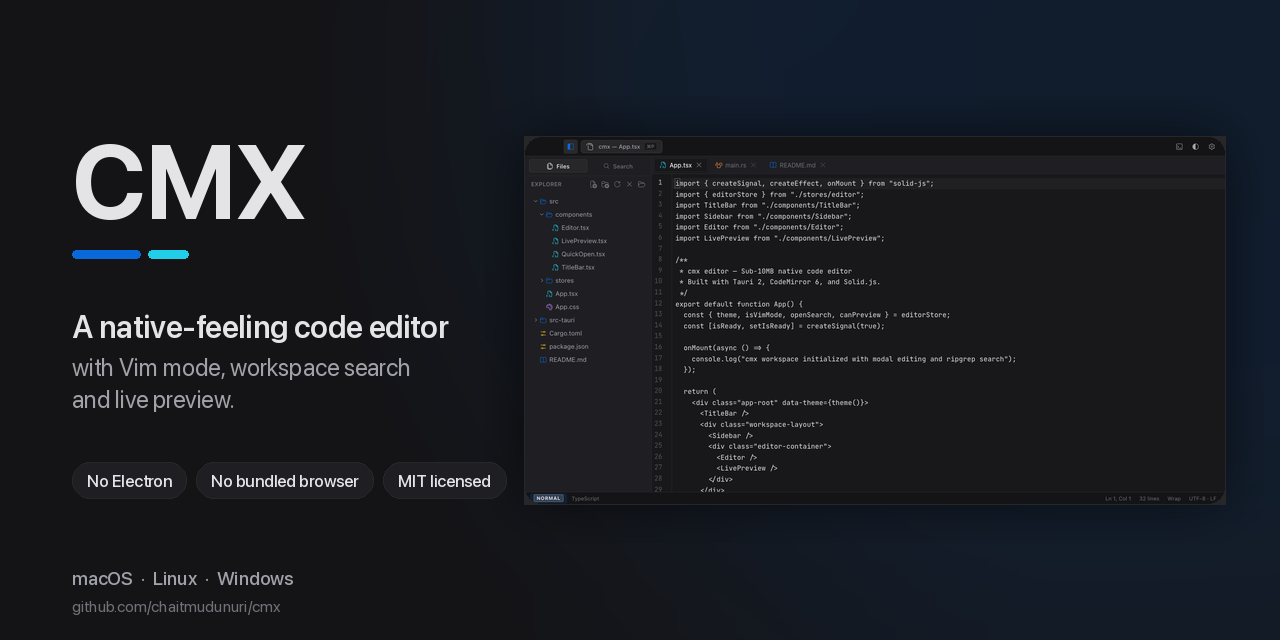
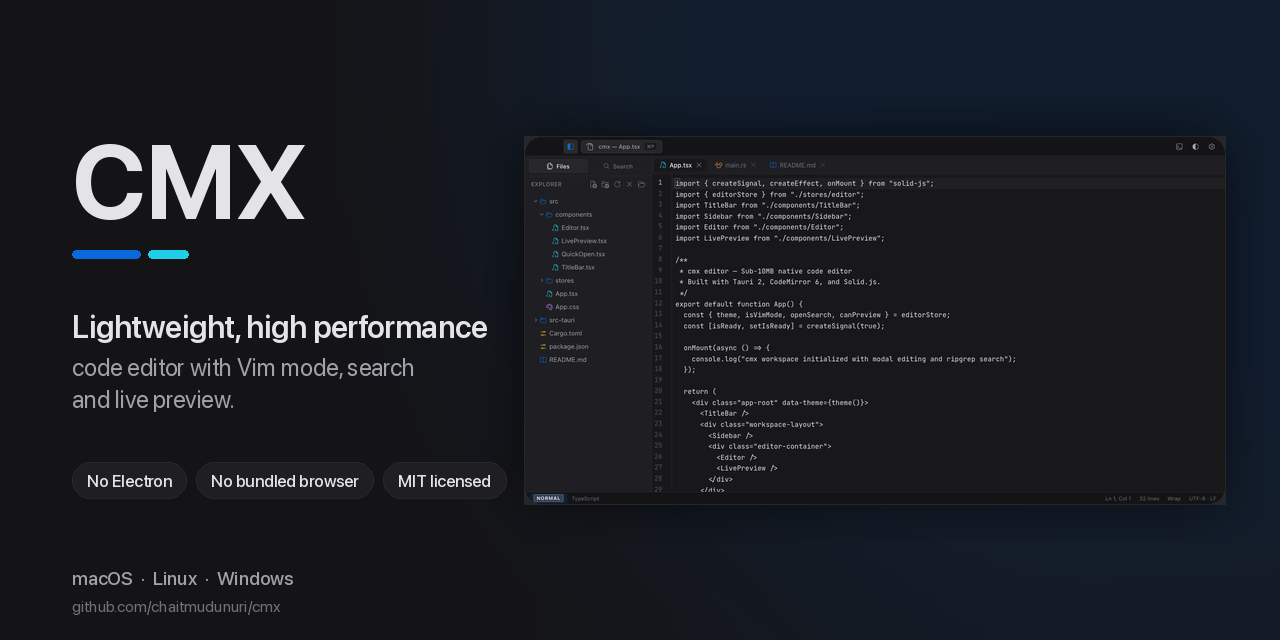
Fix image aspect ratio and update tagline to lightweight, high performance

Changed region(s): [[0.0312, 0.5, 0.4062, 0.5312], [0.0625, 0.5625, 0.3438, 0.5938]]

diff --git a/docs/index.html b/docs/index.html
@@ -37,7 +37,7 @@
 <script defer src="/cmx/assets/site.js"></script>
 
 <script type="application/ld+json" id="schema_0">{"@context":"https://schema.org","@type":"SoftwareSourceCode","name":"CMX","description":"Source code for CMX, a code editor built with Tauri 2, CodeMirror 6 and Solid.js.","codeRepository":"https://github.com/chaitmudunuri/cmx","programmingLanguage":["Rust","TypeScript"],"license":"https://github.com/chaitmudunuri/cmx/blob/main/LICENSE","runtimePlatform":"macOS, Linux, Windows","author":{"@type":"Person","name":"chaitmudunuri","url":"https://github.com/chaitmudunuri"}}</script>
-<script type="application/ld+json" id="schema_1">{"@context":"https://schema.org","@type":"SoftwareApplication","name":"CMX","alternateName":"CMX editor","description":"A native-feeling code editor with Vim mode, workspace search, and live preview. No Electron, no bundled browser.","url":"https://chaitmudunuri.github.io/cmx/","applicationCategory":"DeveloperApplication","applicationSubCategory":"Text editor","operatingSystem":"macOS, Linux, Windows","softwareVersion":"0.1.0","license":"https://github.com/chaitmudunuri/cmx/blob/main/LICENSE","downloadUrl":"https://github.com/chaitmudunuri/cmx/releases/download/v0.1.0/cmx.editor_0.1.0_aarch64.dmg","installUrl":"https://chaitmudunuri.github.io/cmx/docs/installation.html","softwareHelp":"https://chaitmudunuri.github.io/cmx/docs.html","releaseNotes":"https://github.com/chaitmudunuri/cmx/releases/tag/v0.1.0","image":"https://chaitmudunuri.github.io/cmx/social-preview.png","author":{"@type":"Person","name":"chaitmudunuri","url":"https://github.com/chaitmudunuri"},"maintainer":{"@type":"Person","name":"chaitmudunuri"},"offers":[{"@type":"Offer","price":"0","priceCurrency":"USD"}],"featureList":["Vim mode with Friendly and Expert levels","Workspace-wide search that respects .gitignore","Quick Open ranked file finder","Live preview for Markdown, HTML and SVG","Large-file fast mode","Dark and light themes"],"codeRepository":"https://github.com/chaitmudunuri/cmx","programmingLanguage":["Rust","TypeScript"]}</script>
+<script type="application/ld+json" id="schema_1">{"@context":"https://schema.org","@type":"SoftwareApplication","name":"CMX","alternateName":"CMX editor","description":"A lightweight, high performance code editor with Vim mode, workspace search, and live preview. No Electron, no bundled browser.","url":"https://chaitmudunuri.github.io/cmx/","applicationCategory":"DeveloperApplication","applicationSubCategory":"Text editor","operatingSystem":"macOS, Linux, Windows","softwareVersion":"0.1.0","license":"https://github.com/chaitmudunuri/cmx/blob/main/LICENSE","downloadUrl":"https://github.com/chaitmudunuri/cmx/releases/download/v0.1.0/cmx.editor_0.1.0_aarch64.dmg","installUrl":"https://chaitmudunuri.github.io/cmx/docs/installation.html","softwareHelp":"https://chaitmudunuri.github.io/cmx/docs.html","releaseNotes":"https://github.com/chaitmudunuri/cmx/releases/tag/v0.1.0","image":"https://chaitmudunuri.github.io/cmx/social-preview.png","author":{"@type":"Person","name":"chaitmudunuri","url":"https://github.com/chaitmudunuri"},"maintainer":{"@type":"Person","name":"chaitmudunuri"},"offers":[{"@type":"Offer","price":"0","priceCurrency":"USD"}],"featureList":["Vim mode with Friendly and Expert levels","Workspace-wide search that respects .gitignore","Quick Open ranked file finder","Live preview for Markdown, HTML and SVG","Large-file fast mode","Dark and light themes"],"codeRepository":"https://github.com/chaitmudunuri/cmx","programmingLanguage":["Rust","TypeScript"]}</script>
 </head>
 <body>
 <a href="#main" class="skip-link">Skip to main content</a>
@@ -70,7 +70,7 @@
 <section class="hero">
   <h1 class="logo">CMX</h1>
   <div class="rule"><i></i><i></i></div>
-  <p class="tagline">A native-feeling code editor with Vim mode, workspace search, and live preview. No Electron, no bundled browser.</p>
+  <p class="tagline">A lightweight, high performance code editor with Vim mode, workspace search, and live preview. No Electron, no bundled browser.</p>
   <p class="sub">A <b>~7&nbsp;MB</b> binary, <b>~95&nbsp;MB</b> resident memory and a
     <b>~2.4&nbsp;s</b> cold start — because CMX renders in the OS webview instead of bundling
     a browser.</p>
@@ -86,9 +86,9 @@
   alt="CMX code editor showing a dark-theme workspace with the file explorer open and syntax-highlighted TypeScript."></a></figure>
 
 <h2 id="why-cmx">Why CMX<a class="heading-anchor" href="#why-cmx" aria-label="Link to section">#</a></h2>
-<p>Most editors make you choose between native feel and speed. Electron apps feel
-native but ship a browser runtime; web editors are fast but live in a tab. CMX uses
-the operating system's own webview, so it gets both without owning a browser.</p>
+<p>Most editors make you choose between lightweight speed and full capability. Electron apps ship
+a heavy browser runtime; web editors live in a tab. CMX uses the operating system's own webview,
+giving you a lightweight, high performance editor without owning a browser.</p>
 <div class="grid">
   <div class="card"><h3 id="no-bundled-browser">No bundled browser<a class="heading-anchor" href="#no-bundled-browser" aria-label="Link to section">#</a></h3><p>WebKit on macOS, WebKitGTK on Linux, WebView2 on
     Windows. Nothing extra to download, patch or ship.</p></div>

diff --git a/docs/contributing.html b/docs/contributing.html
@@ -38,7 +38,7 @@
 
 <script type="application/ld+json" id="schema_0">{"@context":"https://schema.org","@type":"SoftwareSourceCode","name":"CMX","description":"Source code for CMX, a code editor built with Tauri 2, CodeMirror 6 and Solid.js.","codeRepository":"https://github.com/chaitmudunuri/cmx","programmingLanguage":["Rust","TypeScript"],"license":"https://github.com/chaitmudunuri/cmx/blob/main/LICENSE","runtimePlatform":"macOS, Linux, Windows","author":{"@type":"Person","name":"chaitmudunuri","url":"https://github.com/chaitmudunuri"}}</script>
 <script type="application/ld+json" id="schema_1">{"@context":"https://schema.org","@type":"BreadcrumbList","itemListElement":[{"@type":"ListItem","position":1,"name":"Contributing","item":"https://chaitmudunuri.github.io/cmx/contributing.html"}]}</script>
-<script type="application/ld+json" id="schema_2">{"@context":"https://schema.org","@type":"SoftwareApplication","name":"CMX","alternateName":"CMX editor","description":"A native-feeling code editor with Vim mode, workspace search, and live preview. No Electron, no bundled browser.","url":"https://chaitmudunuri.github.io/cmx/","applicationCategory":"DeveloperApplication","applicationSubCategory":"Text editor","operatingSystem":"macOS, Linux, Windows","softwareVersion":"0.1.0","license":"https://github.com/chaitmudunuri/cmx/blob/main/LICENSE","downloadUrl":"https://github.com/chaitmudunuri/cmx/releases/download/v0.1.0/cmx.editor_0.1.0_aarch64.dmg","installUrl":"https://chaitmudunuri.github.io/cmx/docs/installation.html","softwareHelp":"https://chaitmudunuri.github.io/cmx/docs.html","releaseNotes":"https://github.com/chaitmudunuri/cmx/releases/tag/v0.1.0","image":"https://chaitmudunuri.github.io/cmx/social-preview.png","author":{"@type":"Person","name":"chaitmudunuri","url":"https://github.com/chaitmudunuri"},"maintainer":{"@type":"Person","name":"chaitmudunuri"},"offers":[{"@type":"Offer","price":"0","priceCurrency":"USD"}],"featureList":["Vim mode with Friendly and Expert levels","Workspace-wide search that respects .gitignore","Quick Open ranked file finder","Live preview for Markdown, HTML and SVG","Large-file fast mode","Dark and light themes"],"codeRepository":"https://github.com/chaitmudunuri/cmx","programmingLanguage":["Rust","TypeScript"]}</script>
+<script type="application/ld+json" id="schema_2">{"@context":"https://schema.org","@type":"SoftwareApplication","name":"CMX","alternateName":"CMX editor","description":"A lightweight, high performance code editor with Vim mode, workspace search, and live preview. No Electron, no bundled browser.","url":"https://chaitmudunuri.github.io/cmx/","applicationCategory":"DeveloperApplication","applicationSubCategory":"Text editor","operatingSystem":"macOS, Linux, Windows","softwareVersion":"0.1.0","license":"https://github.com/chaitmudunuri/cmx/blob/main/LICENSE","downloadUrl":"https://github.com/chaitmudunuri/cmx/releases/download/v0.1.0/cmx.editor_0.1.0_aarch64.dmg","installUrl":"https://chaitmudunuri.github.io/cmx/docs/installation.html","softwareHelp":"https://chaitmudunuri.github.io/cmx/docs.html","releaseNotes":"https://github.com/chaitmudunuri/cmx/releases/tag/v0.1.0","image":"https://chaitmudunuri.github.io/cmx/social-preview.png","author":{"@type":"Person","name":"chaitmudunuri","url":"https://github.com/chaitmudunuri"},"maintainer":{"@type":"Person","name":"chaitmudunuri"},"offers":[{"@type":"Offer","price":"0","priceCurrency":"USD"}],"featureList":["Vim mode with Friendly and Expert levels","Workspace-wide search that respects .gitignore","Quick Open ranked file finder","Live preview for Markdown, HTML and SVG","Large-file fast mode","Dark and light themes"],"codeRepository":"https://github.com/chaitmudunuri/cmx","programmingLanguage":["Rust","TypeScript"]}</script>
 </head>
 <body>
 <a href="#main" class="skip-link">Skip to main content</a>

diff --git a/docs/docs/troubleshooting.html b/docs/docs/troubleshooting.html
@@ -37,7 +37,7 @@
 <script defer src="/cmx/assets/site.js"></script>
 
 <script type="application/ld+json" id="schema_0">{"@context":"https://schema.org","@type":"BreadcrumbList","itemListElement":[{"@type":"ListItem","position":1,"name":"Docs","item":"https://chaitmudunuri.github.io/cmx/docs.html"},{"@type":"ListItem","position":2,"name":"Troubleshooting","item":"https://chaitmudunuri.github.io/cmx/docs/troubleshooting.html"}]}</script>
-<script type="application/ld+json" id="schema_1">{"@context":"https://schema.org","@type":"SoftwareApplication","name":"CMX","alternateName":"CMX editor","description":"A native-feeling code editor with Vim mode, workspace search, and live preview. No Electron, no bundled browser.","url":"https://chaitmudunuri.github.io/cmx/","applicationCategory":"DeveloperApplication","applicationSubCategory":"Text editor","operatingSystem":"macOS, Linux, Windows","softwareVersion":"0.1.0","license":"https://github.com/chaitmudunuri/cmx/blob/main/LICENSE","downloadUrl":"https://github.com/chaitmudunuri/cmx/releases/download/v0.1.0/cmx.editor_0.1.0_aarch64.dmg","installUrl":"https://chaitmudunuri.github.io/cmx/docs/installation.html","softwareHelp":"https://chaitmudunuri.github.io/cmx/docs.html","releaseNotes":"https://github.com/chaitmudunuri/cmx/releases/tag/v0.1.0","image":"https://chaitmudunuri.github.io/cmx/social-preview.png","author":{"@type":"Person","name":"chaitmudunuri","url":"https://github.com/chaitmudunuri"},"maintainer":{"@type":"Person","name":"chaitmudunuri"},"offers":[{"@type":"Offer","price":"0","priceCurrency":"USD"}],"featureList":["Vim mode with Friendly and Expert levels","Workspace-wide search that respects .gitignore","Quick Open ranked file finder","Live preview for Markdown, HTML and SVG","Large-file fast mode","Dark and light themes"],"codeRepository":"https://github.com/chaitmudunuri/cmx","programmingLanguage":["Rust","TypeScript"]}</script>
+<script type="application/ld+json" id="schema_1">{"@context":"https://schema.org","@type":"SoftwareApplication","name":"CMX","alternateName":"CMX editor","description":"A lightweight, high performance code editor with Vim mode, workspace search, and live preview. No Electron, no bundled browser.","url":"https://chaitmudunuri.github.io/cmx/","applicationCategory":"DeveloperApplication","applicationSubCategory":"Text editor","operatingSystem":"macOS, Linux, Windows","softwareVersion":"0.1.0","license":"https://github.com/chaitmudunuri/cmx/blob/main/LICENSE","downloadUrl":"https://github.com/chaitmudunuri/cmx/releases/download/v0.1.0/cmx.editor_0.1.0_aarch64.dmg","installUrl":"https://chaitmudunuri.github.io/cmx/docs/installation.html","softwareHelp":"https://chaitmudunuri.github.io/cmx/docs.html","releaseNotes":"https://github.com/chaitmudunuri/cmx/releases/tag/v0.1.0","image":"https://chaitmudunuri.github.io/cmx/social-preview.png","author":{"@type":"Person","name":"chaitmudunuri","url":"https://github.com/chaitmudunuri"},"maintainer":{"@type":"Person","name":"chaitmudunuri"},"offers":[{"@type":"Offer","price":"0","priceCurrency":"USD"}],"featureList":["Vim mode with Friendly and Expert levels","Workspace-wide search that respects .gitignore","Quick Open ranked file finder","Live preview for Markdown, HTML and SVG","Large-file fast mode","Dark and light themes"],"codeRepository":"https://github.com/chaitmudunuri/cmx","programmingLanguage":["Rust","TypeScript"]}</script>
 </head>
 <body>
 <a href="#main" class="skip-link">Skip to main content</a>

diff --git a/docs/docs/shortcuts.html b/docs/docs/shortcuts.html
@@ -37,7 +37,7 @@
 <script defer src="/cmx/assets/site.js"></script>
 
 <script type="application/ld+json" id="schema_0">{"@context":"https://schema.org","@type":"BreadcrumbList","itemListElement":[{"@type":"ListItem","position":1,"name":"Docs","item":"https://chaitmudunuri.github.io/cmx/docs.html"},{"@type":"ListItem","position":2,"name":"Keyboard shortcuts","item":"https://chaitmudunuri.github.io/cmx/docs/shortcuts.html"}]}</script>
-<script type="application/ld+json" id="schema_1">{"@context":"https://schema.org","@type":"SoftwareApplication","name":"CMX","alternateName":"CMX editor","description":"A native-feeling code editor with Vim mode, workspace search, and live preview. No Electron, no bundled browser.","url":"https://chaitmudunuri.github.io/cmx/","applicationCategory":"DeveloperApplication","applicationSubCategory":"Text editor","operatingSystem":"macOS, Linux, Windows","softwareVersion":"0.1.0","license":"https://github.com/chaitmudunuri/cmx/blob/main/LICENSE","downloadUrl":"https://github.com/chaitmudunuri/cmx/releases/download/v0.1.0/cmx.editor_0.1.0_aarch64.dmg","installUrl":"https://chaitmudunuri.github.io/cmx/docs/installation.html","softwareHelp":"https://chaitmudunuri.github.io/cmx/docs.html","releaseNotes":"https://github.com/chaitmudunuri/cmx/releases/tag/v0.1.0","image":"https://chaitmudunuri.github.io/cmx/social-preview.png","author":{"@type":"Person","name":"chaitmudunuri","url":"https://github.com/chaitmudunuri"},"maintainer":{"@type":"Person","name":"chaitmudunuri"},"offers":[{"@type":"Offer","price":"0","priceCurrency":"USD"}],"featureList":["Vim mode with Friendly and Expert levels","Workspace-wide search that respects .gitignore","Quick Open ranked file finder","Live preview for Markdown, HTML and SVG","Large-file fast mode","Dark and light themes"],"codeRepository":"https://github.com/chaitmudunuri/cmx","programmingLanguage":["Rust","TypeScript"]}</script>
+<script type="application/ld+json" id="schema_1">{"@context":"https://schema.org","@type":"SoftwareApplication","name":"CMX","alternateName":"CMX editor","description":"A lightweight, high performance code editor with Vim mode, workspace search, and live preview. No Electron, no bundled browser.","url":"https://chaitmudunuri.github.io/cmx/","applicationCategory":"DeveloperApplication","applicationSubCategory":"Text editor","operatingSystem":"macOS, Linux, Windows","softwareVersion":"0.1.0","license":"https://github.com/chaitmudunuri/cmx/blob/main/LICENSE","downloadUrl":"https://github.com/chaitmudunuri/cmx/releases/download/v0.1.0/cmx.editor_0.1.0_aarch64.dmg","installUrl":"https://chaitmudunuri.github.io/cmx/docs/installation.html","softwareHelp":"https://chaitmudunuri.github.io/cmx/docs.html","releaseNotes":"https://github.com/chaitmudunuri/cmx/releases/tag/v0.1.0","image":"https://chaitmudunuri.github.io/cmx/social-preview.png","author":{"@type":"Person","name":"chaitmudunuri","url":"https://github.com/chaitmudunuri"},"maintainer":{"@type":"Person","name":"chaitmudunuri"},"offers":[{"@type":"Offer","price":"0","priceCurrency":"USD"}],"featureList":["Vim mode with Friendly and Expert levels","Workspace-wide search that respects .gitignore","Quick Open ranked file finder","Live preview for Markdown, HTML and SVG","Large-file fast mode","Dark and light themes"],"codeRepository":"https://github.com/chaitmudunuri/cmx","programmingLanguage":["Rust","TypeScript"]}</script>
 </head>
 <body>
 <a href="#main" class="skip-link">Skip to main content</a>

diff --git a/docs/docs/configuration.html b/docs/docs/configuration.html
@@ -37,7 +37,7 @@
 <script defer src="/cmx/assets/site.js"></script>
 
 <script type="application/ld+json" id="schema_0">{"@context":"https://schema.org","@type":"BreadcrumbList","itemListElement":[{"@type":"ListItem","position":1,"name":"Docs","item":"https://chaitmudunuri.github.io/cmx/docs.html"},{"@type":"ListItem","position":2,"name":"Configuration","item":"https://chaitmudunuri.github.io/cmx/docs/configuration.html"}]}</script>
-<script type="application/ld+json" id="schema_1">{"@context":"https://schema.org","@type":"SoftwareApplication","name":"CMX","alternateName":"CMX editor","description":"A native-feeling code editor with Vim mode, workspace search, and live preview. No Electron, no bundled browser.","url":"https://chaitmudunuri.github.io/cmx/","applicationCategory":"DeveloperApplication","applicationSubCategory":"Text editor","operatingSystem":"macOS, Linux, Windows","softwareVersion":"0.1.0","license":"https://github.com/chaitmudunuri/cmx/blob/main/LICENSE","downloadUrl":"https://github.com/chaitmudunuri/cmx/releases/download/v0.1.0/cmx.editor_0.1.0_aarch64.dmg","installUrl":"https://chaitmudunuri.github.io/cmx/docs/installation.html","softwareHelp":"https://chaitmudunuri.github.io/cmx/docs.html","releaseNotes":"https://github.com/chaitmudunuri/cmx/releases/tag/v0.1.0","image":"https://chaitmudunuri.github.io/cmx/social-preview.png","author":{"@type":"Person","name":"chaitmudunuri","url":"https://github.com/chaitmudunuri"},"maintainer":{"@type":"Person","name":"chaitmudunuri"},"offers":[{"@type":"Offer","price":"0","priceCurrency":"USD"}],"featureList":["Vim mode with Friendly and Expert levels","Workspace-wide search that respects .gitignore","Quick Open ranked file finder","Live preview for Markdown, HTML and SVG","Large-file fast mode","Dark and light themes"],"codeRepository":"https://github.com/chaitmudunuri/cmx","programmingLanguage":["Rust","TypeScript"]}</script>
+<script type="application/ld+json" id="schema_1">{"@context":"https://schema.org","@type":"SoftwareApplication","name":"CMX","alternateName":"CMX editor","description":"A lightweight, high performance code editor with Vim mode, workspace search, and live preview. No Electron, no bundled browser.","url":"https://chaitmudunuri.github.io/cmx/","applicationCategory":"DeveloperApplication","applicationSubCategory":"Text editor","operatingSystem":"macOS, Linux, Windows","softwareVersion":"0.1.0","license":"https://github.com/chaitmudunuri/cmx/blob/main/LICENSE","downloadUrl":"https://github.com/chaitmudunuri/cmx/releases/download/v0.1.0/cmx.editor_0.1.0_aarch64.dmg","installUrl":"https://chaitmudunuri.github.io/cmx/docs/installation.html","softwareHelp":"https://chaitmudunuri.github.io/cmx/docs.html","releaseNotes":"https://github.com/chaitmudunuri/cmx/releases/tag/v0.1.0","image":"https://chaitmudunuri.github.io/cmx/social-preview.png","author":{"@type":"Person","name":"chaitmudunuri","url":"https://github.com/chaitmudunuri"},"maintainer":{"@type":"Person","name":"chaitmudunuri"},"offers":[{"@type":"Offer","price":"0","priceCurrency":"USD"}],"featureList":["Vim mode with Friendly and Expert levels","Workspace-wide search that respects .gitignore","Quick Open ranked file finder","Live preview for Markdown, HTML and SVG","Large-file fast mode","Dark and light themes"],"codeRepository":"https://github.com/chaitmudunuri/cmx","programmingLanguage":["Rust","TypeScript"]}</script>
 </head>
 <body>
 <a href="#main" class="skip-link">Skip to main content</a>

diff --git a/docs/docs/development.html b/docs/docs/development.html
@@ -37,7 +37,7 @@
 <script defer src="/cmx/assets/site.js"></script>
 
 <script type="application/ld+json" id="schema_0">{"@context":"https://schema.org","@type":"BreadcrumbList","itemListElement":[{"@type":"ListItem","position":1,"name":"Docs","item":"https://chaitmudunuri.github.io/cmx/docs.html"},{"@type":"ListItem","position":2,"name":"Developer setup","item":"https://chaitmudunuri.github.io/cmx/docs/development.html"}]}</script>
-<script type="application/ld+json" id="schema_1">{"@context":"https://schema.org","@type":"SoftwareApplication","name":"CMX","alternateName":"CMX editor","description":"A native-feeling code editor with Vim mode, workspace search, and live preview. No Electron, no bundled browser.","url":"https://chaitmudunuri.github.io/cmx/","applicationCategory":"DeveloperApplication","applicationSubCategory":"Text editor","operatingSystem":"macOS, Linux, Windows","softwareVersion":"0.1.0","license":"https://github.com/chaitmudunuri/cmx/blob/main/LICENSE","downloadUrl":"https://github.com/chaitmudunuri/cmx/releases/download/v0.1.0/cmx.editor_0.1.0_aarch64.dmg","installUrl":"https://chaitmudunuri.github.io/cmx/docs/installation.html","softwareHelp":"https://chaitmudunuri.github.io/cmx/docs.html","releaseNotes":"https://github.com/chaitmudunuri/cmx/releases/tag/v0.1.0","image":"https://chaitmudunuri.github.io/cmx/social-preview.png","author":{"@type":"Person","name":"chaitmudunuri","url":"https://github.com/chaitmudunuri"},"maintainer":{"@type":"Person","name":"chaitmudunuri"},"offers":[{"@type":"Offer","price":"0","priceCurrency":"USD"}],"featureList":["Vim mode with Friendly and Expert levels","Workspace-wide search that respects .gitignore","Quick Open ranked file finder","Live preview for Markdown, HTML and SVG","Large-file fast mode","Dark and light themes"],"codeRepository":"https://github.com/chaitmudunuri/cmx","programmingLanguage":["Rust","TypeScript"]}</script>
+<script type="application/ld+json" id="schema_1">{"@context":"https://schema.org","@type":"SoftwareApplication","name":"CMX","alternateName":"CMX editor","description":"A lightweight, high performance code editor with Vim mode, workspace search, and live preview. No Electron, no bundled browser.","url":"https://chaitmudunuri.github.io/cmx/","applicationCategory":"DeveloperApplication","applicationSubCategory":"Text editor","operatingSystem":"macOS, Linux, Windows","softwareVersion":"0.1.0","license":"https://github.com/chaitmudunuri/cmx/blob/main/LICENSE","downloadUrl":"https://github.com/chaitmudunuri/cmx/releases/download/v0.1.0/cmx.editor_0.1.0_aarch64.dmg","installUrl":"https://chaitmudunuri.github.io/cmx/docs/installation.html","softwareHelp":"https://chaitmudunuri.github.io/cmx/docs.html","releaseNotes":"https://github.com/chaitmudunuri/cmx/releases/tag/v0.1.0","image":"https://chaitmudunuri.github.io/cmx/social-preview.png","author":{"@type":"Person","name":"chaitmudunuri","url":"https://github.com/chaitmudunuri"},"maintainer":{"@type":"Person","name":"chaitmudunuri"},"offers":[{"@type":"Offer","price":"0","priceCurrency":"USD"}],"featureList":["Vim mode with Friendly and Expert levels","Workspace-wide search that respects .gitignore","Quick Open ranked file finder","Live preview for Markdown, HTML and SVG","Large-file fast mode","Dark and light themes"],"codeRepository":"https://github.com/chaitmudunuri/cmx","programmingLanguage":["Rust","TypeScript"]}</script>
 </head>
 <body>
 <a href="#main" class="skip-link">Skip to main content</a>

diff --git a/docs/docs/installation.html b/docs/docs/installation.html
@@ -37,7 +37,7 @@
 <script defer src="/cmx/assets/site.js"></script>
 
 <script type="application/ld+json" id="schema_0">{"@context":"https://schema.org","@type":"BreadcrumbList","itemListElement":[{"@type":"ListItem","position":1,"name":"Docs","item":"https://chaitmudunuri.github.io/cmx/docs.html"},{"@type":"ListItem","position":2,"name":"Installation","item":"https://chaitmudunuri.github.io/cmx/docs/installation.html"}]}</script>
-<script type="application/ld+json" id="schema_1">{"@context":"https://schema.org","@type":"SoftwareApplication","name":"CMX","alternateName":"CMX editor","description":"A native-feeling code editor with Vim mode, workspace search, and live preview. No Electron, no bundled browser.","url":"https://chaitmudunuri.github.io/cmx/","applicationCategory":"DeveloperApplication","applicationSubCategory":"Text editor","operatingSystem":"macOS, Linux, Windows","softwareVersion":"0.1.0","license":"https://github.com/chaitmudunuri/cmx/blob/main/LICENSE","downloadUrl":"https://github.com/chaitmudunuri/cmx/releases/download/v0.1.0/cmx.editor_0.1.0_aarch64.dmg","installUrl":"https://chaitmudunuri.github.io/cmx/docs/installation.html","softwareHelp":"https://chaitmudunuri.github.io/cmx/docs.html","releaseNotes":"https://github.com/chaitmudunuri/cmx/releases/tag/v0.1.0","image":"https://chaitmudunuri.github.io/cmx/social-preview.png","author":{"@type":"Person","name":"chaitmudunuri","url":"https://github.com/chaitmudunuri"},"maintainer":{"@type":"Person","name":"chaitmudunuri"},"offers":[{"@type":"Offer","price":"0","priceCurrency":"USD"}],"featureList":["Vim mode with Friendly and Expert levels","Workspace-wide search that respects .gitignore","Quick Open ranked file finder","Live preview for Markdown, HTML and SVG","Large-file fast mode","Dark and light themes"],"codeRepository":"https://github.com/chaitmudunuri/cmx","programmingLanguage":["Rust","TypeScript"]}</script>
+<script type="application/ld+json" id="schema_1">{"@context":"https://schema.org","@type":"SoftwareApplication","name":"CMX","alternateName":"CMX editor","description":"A lightweight, high performance code editor with Vim mode, workspace search, and live preview. No Electron, no bundled browser.","url":"https://chaitmudunuri.github.io/cmx/","applicationCategory":"DeveloperApplication","applicationSubCategory":"Text editor","operatingSystem":"macOS, Linux, Windows","softwareVersion":"0.1.0","license":"https://github.com/chaitmudunuri/cmx/blob/main/LICENSE","downloadUrl":"https://github.com/chaitmudunuri/cmx/releases/download/v0.1.0/cmx.editor_0.1.0_aarch64.dmg","installUrl":"https://chaitmudunuri.github.io/cmx/docs/installation.html","softwareHelp":"https://chaitmudunuri.github.io/cmx/docs.html","releaseNotes":"https://github.com/chaitmudunuri/cmx/releases/tag/v0.1.0","image":"https://chaitmudunuri.github.io/cmx/social-preview.png","author":{"@type":"Person","name":"chaitmudunuri","url":"https://github.com/chaitmudunuri"},"maintainer":{"@type":"Person","name":"chaitmudunuri"},"offers":[{"@type":"Offer","price":"0","priceCurrency":"USD"}],"featureList":["Vim mode with Friendly and Expert levels","Workspace-wide search that respects .gitignore","Quick Open ranked file finder","Live preview for Markdown, HTML and SVG","Large-file fast mode","Dark and light themes"],"codeRepository":"https://github.com/chaitmudunuri/cmx","programmingLanguage":["Rust","TypeScript"]}</script>
 </head>
 <body>
 <a href="#main" class="skip-link">Skip to main content</a>

diff --git a/docs/performance.html b/docs/performance.html
@@ -37,7 +37,7 @@
 <script defer src="/cmx/assets/site.js"></script>
 
 <script type="application/ld+json" id="schema_0">{"@context":"https://schema.org","@type":"BreadcrumbList","itemListElement":[{"@type":"ListItem","position":1,"name":"Performance","item":"https://chaitmudunuri.github.io/cmx/performance.html"}]}</script>
-<script type="application/ld+json" id="schema_1">{"@context":"https://schema.org","@type":"SoftwareApplication","name":"CMX","alternateName":"CMX editor","description":"A native-feeling code editor with Vim mode, workspace search, and live preview. No Electron, no bundled browser.","url":"https://chaitmudunuri.github.io/cmx/","applicationCategory":"DeveloperApplication","applicationSubCategory":"Text editor","operatingSystem":"macOS, Linux, Windows","softwareVersion":"0.1.0","license":"https://github.com/chaitmudunuri/cmx/blob/main/LICENSE","downloadUrl":"https://github.com/chaitmudunuri/cmx/releases/download/v0.1.0/cmx.editor_0.1.0_aarch64.dmg","installUrl":"https://chaitmudunuri.github.io/cmx/docs/installation.html","softwareHelp":"https://chaitmudunuri.github.io/cmx/docs.html","releaseNotes":"https://github.com/chaitmudunuri/cmx/releases/tag/v0.1.0","image":"https://chaitmudunuri.github.io/cmx/social-preview.png","author":{"@type":"Person","name":"chaitmudunuri","url":"https://github.com/chaitmudunuri"},"maintainer":{"@type":"Person","name":"chaitmudunuri"},"offers":[{"@type":"Offer","price":"0","priceCurrency":"USD"}],"featureList":["Vim mode with Friendly and Expert levels","Workspace-wide search that respects .gitignore","Quick Open ranked file finder","Live preview for Markdown, HTML and SVG","Large-file fast mode","Dark and light themes"],"codeRepository":"https://github.com/chaitmudunuri/cmx","programmingLanguage":["Rust","TypeScript"]}</script>
+<script type="application/ld+json" id="schema_1">{"@context":"https://schema.org","@type":"SoftwareApplication","name":"CMX","alternateName":"CMX editor","description":"A lightweight, high performance code editor with Vim mode, workspace search, and live preview. No Electron, no bundled browser.","url":"https://chaitmudunuri.github.io/cmx/","applicationCategory":"DeveloperApplication","applicationSubCategory":"Text editor","operatingSystem":"macOS, Linux, Windows","softwareVersion":"0.1.0","license":"https://github.com/chaitmudunuri/cmx/blob/main/LICENSE","downloadUrl":"https://github.com/chaitmudunuri/cmx/releases/download/v0.1.0/cmx.editor_0.1.0_aarch64.dmg","installUrl":"https://chaitmudunuri.github.io/cmx/docs/installation.html","softwareHelp":"https://chaitmudunuri.github.io/cmx/docs.html","releaseNotes":"https://github.com/chaitmudunuri/cmx/releases/tag/v0.1.0","image":"https://chaitmudunuri.github.io/cmx/social-preview.png","author":{"@type":"Person","name":"chaitmudunuri","url":"https://github.com/chaitmudunuri"},"maintainer":{"@type":"Person","name":"chaitmudunuri"},"offers":[{"@type":"Offer","price":"0","priceCurrency":"USD"}],"featureList":["Vim mode with Friendly and Expert levels","Workspace-wide search that respects .gitignore","Quick Open ranked file finder","Live preview for Markdown, HTML and SVG","Large-file fast mode","Dark and light themes"],"codeRepository":"https://github.com/chaitmudunuri/cmx","programmingLanguage":["Rust","TypeScript"]}</script>
 </head>
 <body>
 <a href="#main" class="skip-link">Skip to main content</a>

diff --git a/docs/downloads.html b/docs/downloads.html
@@ -37,7 +37,7 @@
 <script defer src="/cmx/assets/site.js"></script>
 
 <script type="application/ld+json" id="schema_0">{"@context":"https://schema.org","@type":"BreadcrumbList","itemListElement":[{"@type":"ListItem","position":1,"name":"Download","item":"https://chaitmudunuri.github.io/cmx/downloads.html"}]}</script>
-<script type="application/ld+json" id="schema_1">{"@context":"https://schema.org","@type":"SoftwareApplication","name":"CMX","alternateName":"CMX editor","description":"A native-feeling code editor with Vim mode, workspace search, and live preview. No Electron, no bundled browser.","url":"https://chaitmudunuri.github.io/cmx/","applicationCategory":"DeveloperApplication","applicationSubCategory":"Text editor","operatingSystem":"macOS, Linux, Windows","softwareVersion":"0.1.0","license":"https://github.com/chaitmudunuri/cmx/blob/main/LICENSE","downloadUrl":"https://github.com/chaitmudunuri/cmx/releases/download/v0.1.0/cmx.editor_0.1.0_aarch64.dmg","installUrl":"https://chaitmudunuri.github.io/cmx/docs/installation.html","softwareHelp":"https://chaitmudunuri.github.io/cmx/docs.html","releaseNotes":"https://github.com/chaitmudunuri/cmx/releases/tag/v0.1.0","image":"https://chaitmudunuri.github.io/cmx/social-preview.png","author":{"@type":"Person","name":"chaitmudunuri","url":"https://github.com/chaitmudunuri"},"maintainer":{"@type":"Person","name":"chaitmudunuri"},"offers":[{"@type":"Offer","price":"0","priceCurrency":"USD"}],"featureList":["Vim mode with Friendly and Expert levels","Workspace-wide search that respects .gitignore","Quick Open ranked file finder","Live preview for Markdown, HTML and SVG","Large-file fast mode","Dark and light themes"],"codeRepository":"https://github.com/chaitmudunuri/cmx","programmingLanguage":["Rust","TypeScript"]}</script>
+<script type="application/ld+json" id="schema_1">{"@context":"https://schema.org","@type":"SoftwareApplication","name":"CMX","alternateName":"CMX editor","description":"A lightweight, high performance code editor with Vim mode, workspace search, and live preview. No Electron, no bundled browser.","url":"https://chaitmudunuri.github.io/cmx/","applicationCategory":"DeveloperApplication","applicationSubCategory":"Text editor","operatingSystem":"macOS, Linux, Windows","softwareVersion":"0.1.0","license":"https://github.com/chaitmudunuri/cmx/blob/main/LICENSE","downloadUrl":"https://github.com/chaitmudunuri/cmx/releases/download/v0.1.0/cmx.editor_0.1.0_aarch64.dmg","installUrl":"https://chaitmudunuri.github.io/cmx/docs/installation.html","softwareHelp":"https://chaitmudunuri.github.io/cmx/docs.html","releaseNotes":"https://github.com/chaitmudunuri/cmx/releases/tag/v0.1.0","image":"https://chaitmudunuri.github.io/cmx/social-preview.png","author":{"@type":"Person","name":"chaitmudunuri","url":"https://github.com/chaitmudunuri"},"maintainer":{"@type":"Person","name":"chaitmudunuri"},"offers":[{"@type":"Offer","price":"0","priceCurrency":"USD"}],"featureList":["Vim mode with Friendly and Expert levels","Workspace-wide search that respects .gitignore","Quick Open ranked file finder","Live preview for Markdown, HTML and SVG","Large-file fast mode","Dark and light themes"],"codeRepository":"https://github.com/chaitmudunuri/cmx","programmingLanguage":["Rust","TypeScript"]}</script>
 </head>
 <body>
 <a href="#main" class="skip-link">Skip to main content</a>

diff --git a/docs/features.html b/docs/features.html
@@ -37,7 +37,7 @@
 <script defer src="/cmx/assets/site.js"></script>
 
 <script type="application/ld+json" id="schema_0">{"@context":"https://schema.org","@type":"BreadcrumbList","itemListElement":[{"@type":"ListItem","position":1,"name":"Features","item":"https://chaitmudunuri.github.io/cmx/features.html"}]}</script>
-<script type="application/ld+json" id="schema_1">{"@context":"https://schema.org","@type":"SoftwareApplication","name":"CMX","alternateName":"CMX editor","description":"A native-feeling code editor with Vim mode, workspace search, and live preview. No Electron, no bundled browser.","url":"https://chaitmudunuri.github.io/cmx/","applicationCategory":"DeveloperApplication","applicationSubCategory":"Text editor","operatingSystem":"macOS, Linux, Windows","softwareVersion":"0.1.0","license":"https://github.com/chaitmudunuri/cmx/blob/main/LICENSE","downloadUrl":"https://github.com/chaitmudunuri/cmx/releases/download/v0.1.0/cmx.editor_0.1.0_aarch64.dmg","installUrl":"https://chaitmudunuri.github.io/cmx/docs/installation.html","softwareHelp":"https://chaitmudunuri.github.io/cmx/docs.html","releaseNotes":"https://github.com/chaitmudunuri/cmx/releases/tag/v0.1.0","image":"https://chaitmudunuri.github.io/cmx/social-preview.png","author":{"@type":"Person","name":"chaitmudunuri","url":"https://github.com/chaitmudunuri"},"maintainer":{"@type":"Person","name":"chaitmudunuri"},"offers":[{"@type":"Offer","price":"0","priceCurrency":"USD"}],"featureList":["Vim mode with Friendly and Expert levels","Workspace-wide search that respects .gitignore","Quick Open ranked file finder","Live preview for Markdown, HTML and SVG","Large-file fast mode","Dark and light themes"],"codeRepository":"https://github.com/chaitmudunuri/cmx","programmingLanguage":["Rust","TypeScript"]}</script>
+<script type="application/ld+json" id="schema_1">{"@context":"https://schema.org","@type":"SoftwareApplication","name":"CMX","alternateName":"CMX editor","description":"A lightweight, high performance code editor with Vim mode, workspace search, and live preview. No Electron, no bundled browser.","url":"https://chaitmudunuri.github.io/cmx/","applicationCategory":"DeveloperApplication","applicationSubCategory":"Text editor","operatingSystem":"macOS, Linux, Windows","softwareVersion":"0.1.0","license":"https://github.com/chaitmudunuri/cmx/blob/main/LICENSE","downloadUrl":"https://github.com/chaitmudunuri/cmx/releases/download/v0.1.0/cmx.editor_0.1.0_aarch64.dmg","installUrl":"https://chaitmudunuri.github.io/cmx/docs/installation.html","softwareHelp":"https://chaitmudunuri.github.io/cmx/docs.html","releaseNotes":"https://github.com/chaitmudunuri/cmx/releases/tag/v0.1.0","image":"https://chaitmudunuri.github.io/cmx/social-preview.png","author":{"@type":"Person","name":"chaitmudunuri","url":"https://github.com/chaitmudunuri"},"maintainer":{"@type":"Person","name":"chaitmudunuri"},"offers":[{"@type":"Offer","price":"0","priceCurrency":"USD"}],"featureList":["Vim mode with Friendly and Expert levels","Workspace-wide search that respects .gitignore","Quick Open ranked file finder","Live preview for Markdown, HTML and SVG","Large-file fast mode","Dark and light themes"],"codeRepository":"https://github.com/chaitmudunuri/cmx","programmingLanguage":["Rust","TypeScript"]}</script>
 </head>
 <body>
 <a href="#main" class="skip-link">Skip to main content</a>

diff --git a/docs/docs.html b/docs/docs.html
@@ -37,7 +37,7 @@
 <script defer src="/cmx/assets/site.js"></script>
 
 <script type="application/ld+json" id="schema_0">{"@context":"https://schema.org","@type":"BreadcrumbList","itemListElement":[{"@type":"ListItem","position":1,"name":"Docs","item":"https://chaitmudunuri.github.io/cmx/docs.html"}]}</script>
-<script type="application/ld+json" id="schema_1">{"@context":"https://schema.org","@type":"SoftwareApplication","name":"CMX","alternateName":"CMX editor","description":"A native-feeling code editor with Vim mode, workspace search, and live preview. No Electron, no bundled browser.","url":"https://chaitmudunuri.github.io/cmx/","applicationCategory":"DeveloperApplication","applicationSubCategory":"Text editor","operatingSystem":"macOS, Linux, Windows","softwareVersion":"0.1.0","license":"https://github.com/chaitmudunuri/cmx/blob/main/LICENSE","downloadUrl":"https://github.com/chaitmudunuri/cmx/releases/download/v0.1.0/cmx.editor_0.1.0_aarch64.dmg","installUrl":"https://chaitmudunuri.github.io/cmx/docs/installation.html","softwareHelp":"https://chaitmudunuri.github.io/cmx/docs.html","releaseNotes":"https://github.com/chaitmudunuri/cmx/releases/tag/v0.1.0","image":"https://chaitmudunuri.github.io/cmx/social-preview.png","author":{"@type":"Person","name":"chaitmudunuri","url":"https://github.com/chaitmudunuri"},"maintainer":{"@type":"Person","name":"chaitmudunuri"},"offers":[{"@type":"Offer","price":"0","priceCurrency":"USD"}],"featureList":["Vim mode with Friendly and Expert levels","Workspace-wide search that respects .gitignore","Quick Open ranked file finder","Live preview for Markdown, HTML and SVG","Large-file fast mode","Dark and light themes"],"codeRepository":"https://github.com/chaitmudunuri/cmx","programmingLanguage":["Rust","TypeScript"]}</script>
+<script type="application/ld+json" id="schema_1">{"@context":"https://schema.org","@type":"SoftwareApplication","name":"CMX","alternateName":"CMX editor","description":"A lightweight, high performance code editor with Vim mode, workspace search, and live preview. No Electron, no bundled browser.","url":"https://chaitmudunuri.github.io/cmx/","applicationCategory":"DeveloperApplication","applicationSubCategory":"Text editor","operatingSystem":"macOS, Linux, Windows","softwareVersion":"0.1.0","license":"https://github.com/chaitmudunuri/cmx/blob/main/LICENSE","downloadUrl":"https://github.com/chaitmudunuri/cmx/releases/download/v0.1.0/cmx.editor_0.1.0_aarch64.dmg","installUrl":"https://chaitmudunuri.github.io/cmx/docs/installation.html","softwareHelp":"https://chaitmudunuri.github.io/cmx/docs.html","releaseNotes":"https://github.com/chaitmudunuri/cmx/releases/tag/v0.1.0","image":"https://chaitmudunuri.github.io/cmx/social-preview.png","author":{"@type":"Person","name":"chaitmudunuri","url":"https://github.com/chaitmudunuri"},"maintainer":{"@type":"Person","name":"chaitmudunuri"},"offers":[{"@type":"Offer","price":"0","priceCurrency":"USD"}],"featureList":["Vim mode with Friendly and Expert levels","Workspace-wide search that respects .gitignore","Quick Open ranked file finder","Live preview for Markdown, HTML and SVG","Large-file fast mode","Dark and light themes"],"codeRepository":"https://github.com/chaitmudunuri/cmx","programmingLanguage":["Rust","TypeScript"]}</script>
 </head>
 <body>
 <a href="#main" class="skip-link">Skip to main content</a>

diff --git a/docs/404.html b/docs/404.html
@@ -37,7 +37,7 @@
 <link rel="icon" href="https://raw.githubusercontent.com/chaitmudunuri/cmx/main/app-icon.svg" type="image/svg+xml">
 <script defer src="/cmx/assets/site.js"></script>
 
-<script type="application/ld+json" id="schema_0">{"@context":"https://schema.org","@type":"SoftwareApplication","name":"CMX","alternateName":"CMX editor","description":"A native-feeling code editor with Vim mode, workspace search, and live preview. No Electron, no bundled browser.","url":"https://chaitmudunuri.github.io/cmx/","applicationCategory":"DeveloperApplication","applicationSubCategory":"Text editor","operatingSystem":"macOS, Linux, Windows","softwareVersion":"0.1.0","license":"https://github.com/chaitmudunuri/cmx/blob/main/LICENSE","downloadUrl":"https://github.com/chaitmudunuri/cmx/releases/download/v0.1.0/cmx.editor_0.1.0_aarch64.dmg","installUrl":"https://chaitmudunuri.github.io/cmx/docs/installation.html","softwareHelp":"https://chaitmudunuri.github.io/cmx/docs.html","releaseNotes":"https://github.com/chaitmudunuri/cmx/releases/tag/v0.1.0","image":"https://chaitmudunuri.github.io/cmx/social-preview.png","author":{"@type":"Person","name":"chaitmudunuri","url":"https://github.com/chaitmudunuri"},"maintainer":{"@type":"Person","name":"chaitmudunuri"},"offers":[{"@type":"Offer","price":"0","priceCurrency":"USD"}],"featureList":["Vim mode with Friendly and Expert levels","Workspace-wide search that respects .gitignore","Quick Open ranked file finder","Live preview for Markdown, HTML and SVG","Large-file fast mode","Dark and light themes"],"codeRepository":"https://github.com/chaitmudunuri/cmx","programmingLanguage":["Rust","TypeScript"]}</script>
+<script type="application/ld+json" id="schema_0">{"@context":"https://schema.org","@type":"SoftwareApplication","name":"CMX","alternateName":"CMX editor","description":"A lightweight, high performance code editor with Vim mode, workspace search, and live preview. No Electron, no bundled browser.","url":"https://chaitmudunuri.github.io/cmx/","applicationCategory":"DeveloperApplication","applicationSubCategory":"Text editor","operatingSystem":"macOS, Linux, Windows","softwareVersion":"0.1.0","license":"https://github.com/chaitmudunuri/cmx/blob/main/LICENSE","downloadUrl":"https://github.com/chaitmudunuri/cmx/releases/download/v0.1.0/cmx.editor_0.1.0_aarch64.dmg","installUrl":"https://chaitmudunuri.github.io/cmx/docs/installation.html","softwareHelp":"https://chaitmudunuri.github.io/cmx/docs.html","releaseNotes":"https://github.com/chaitmudunuri/cmx/releases/tag/v0.1.0","image":"https://chaitmudunuri.github.io/cmx/social-preview.png","author":{"@type":"Person","name":"chaitmudunuri","url":"https://github.com/chaitmudunuri"},"maintainer":{"@type":"Person","name":"chaitmudunuri"},"offers":[{"@type":"Offer","price":"0","priceCurrency":"USD"}],"featureList":["Vim mode with Friendly and Expert levels","Workspace-wide search that respects .gitignore","Quick Open ranked file finder","Live preview for Markdown, HTML and SVG","Large-file fast mode","Dark and light themes"],"codeRepository":"https://github.com/chaitmudunuri/cmx","programmingLanguage":["Rust","TypeScript"]}</script>
 </head>
 <body>
 <a href="#main" class="skip-link">Skip to main content</a>
